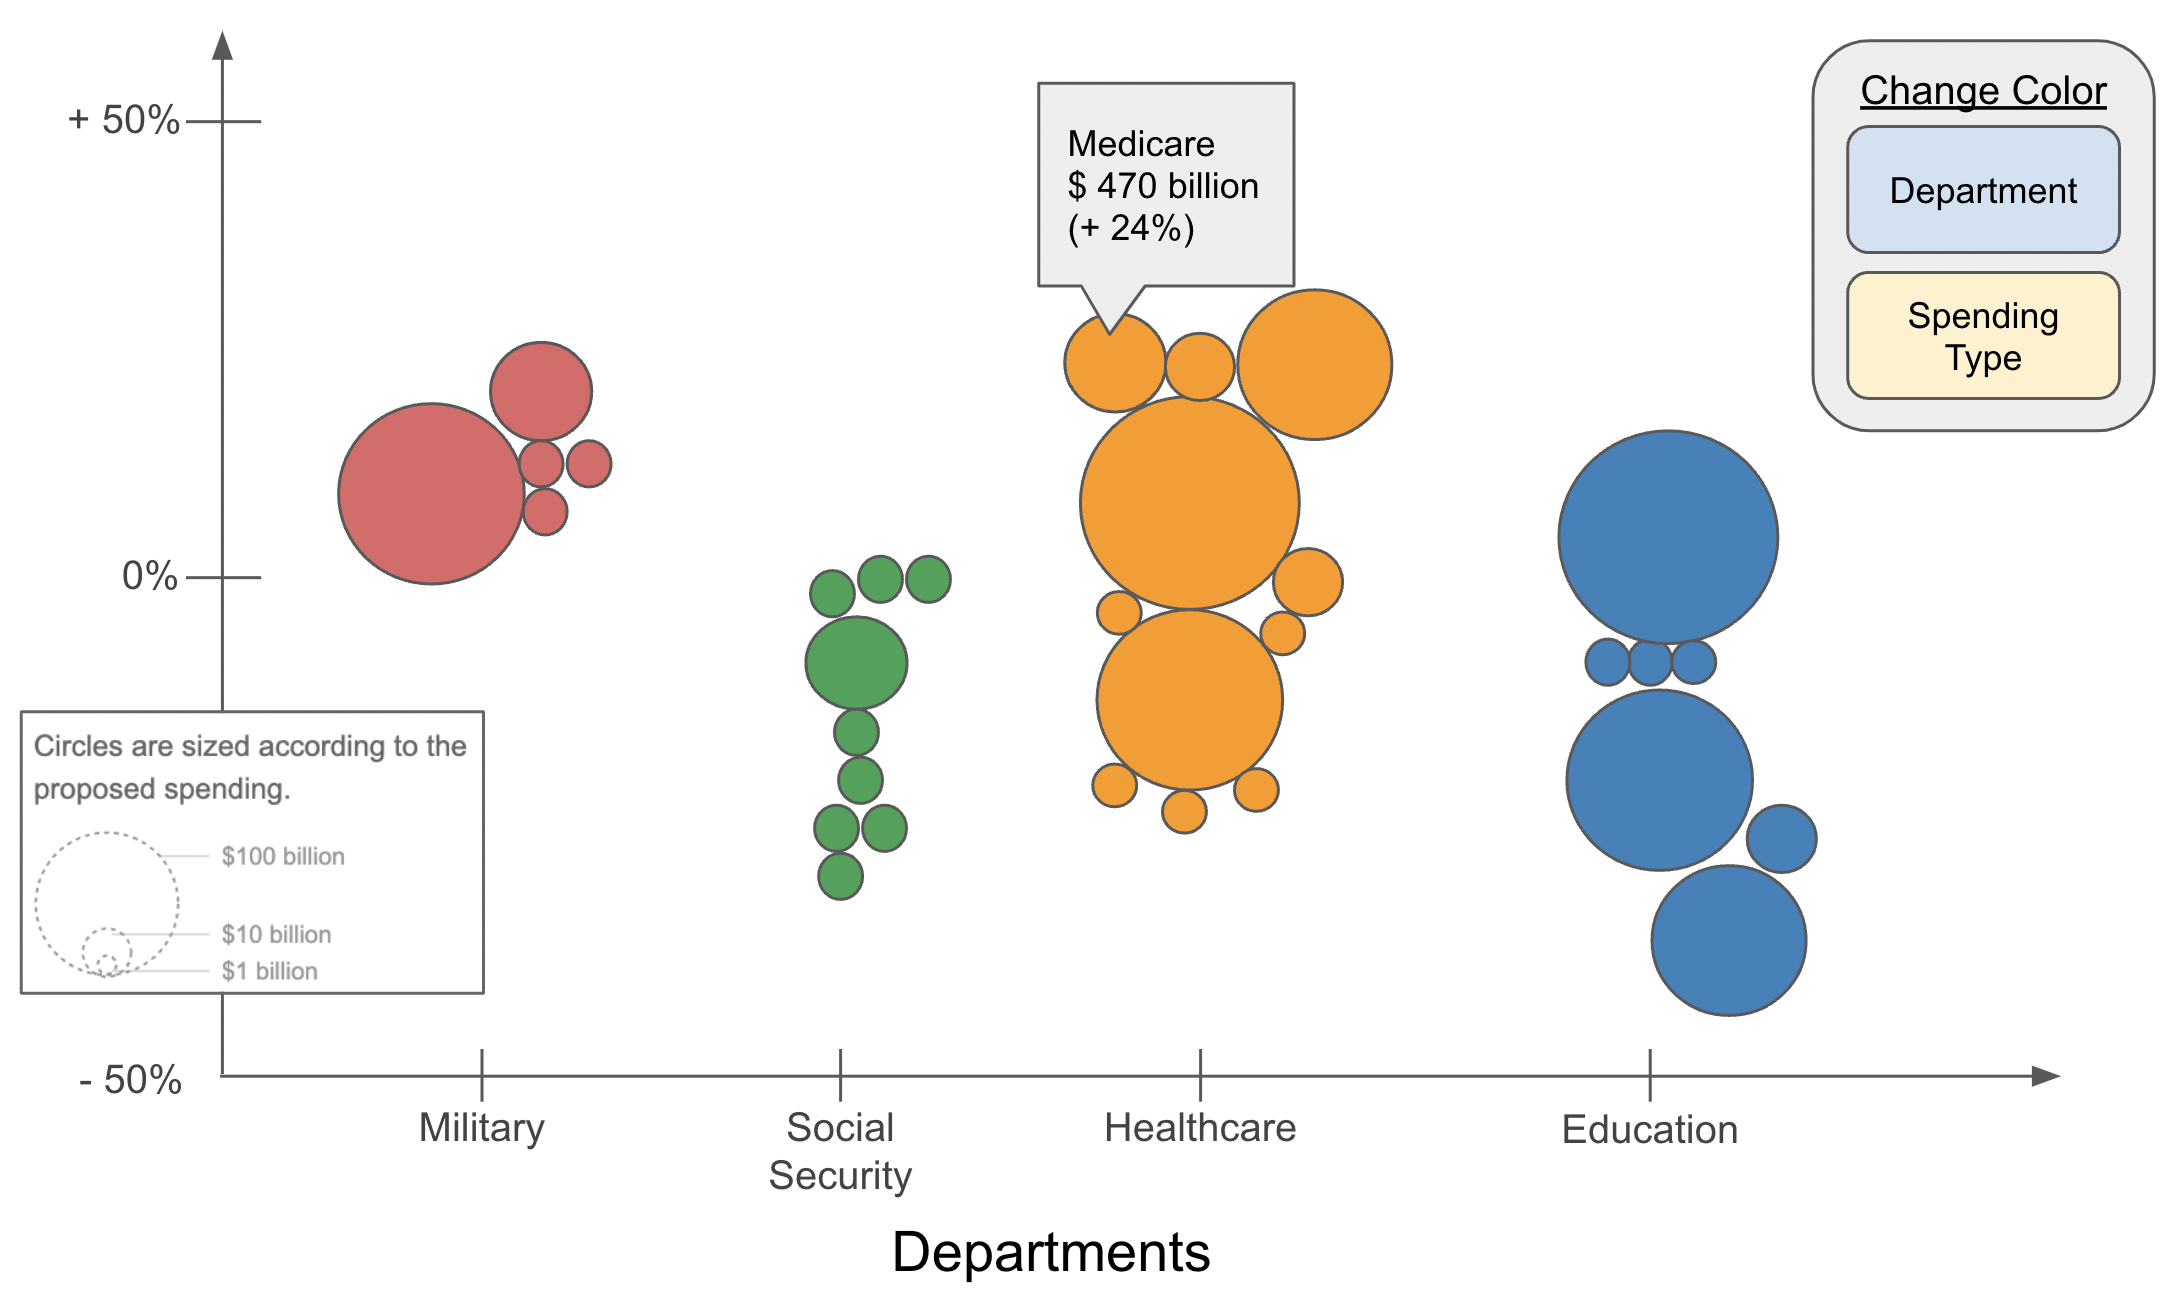
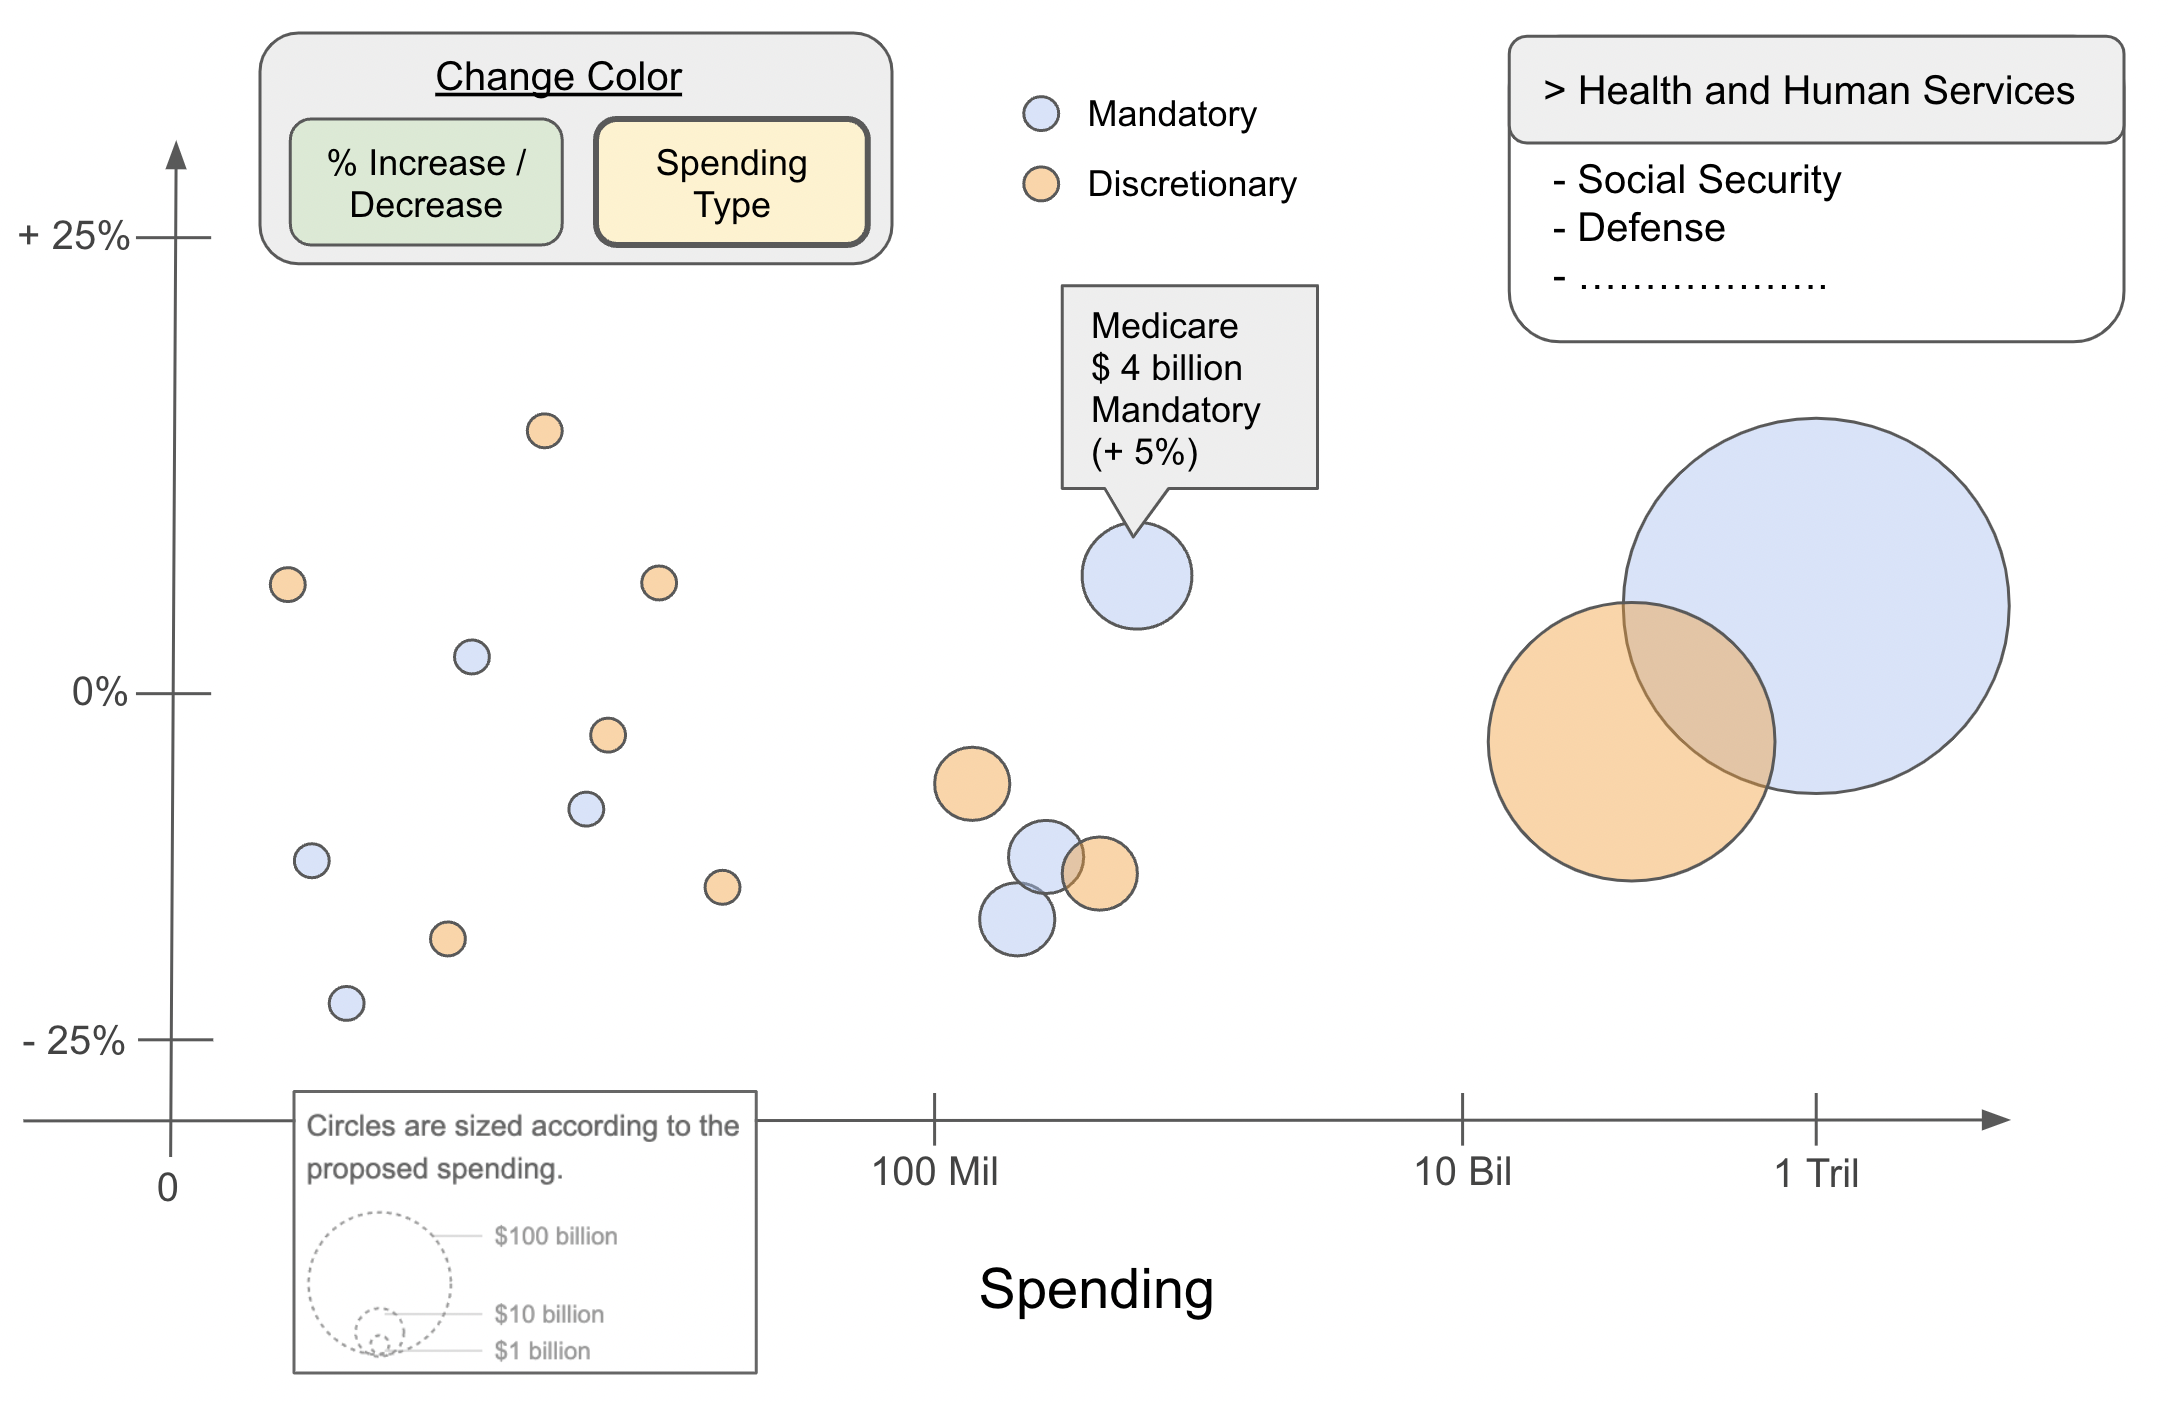
Overhauled proposed improvement 1 to better align with visualization critiques

diff --git a/index.html b/index.html
@@ -82,26 +82,36 @@
                                 <li>Forecasted spending amount</li>
                                 <li>Budget % increase/decrease</li>
                                 <li>Spending types</li>
-                                <li>Total amount for each department.</li>
+                                <li>Total amount for each department</li>
                             </ul>
                         <h5>Idiom</h5>
                             <ul>
-                                <li>Uses a circular packed bubble chart to represent the spending of each department</li>
+                                <li>Uses a circular packed bubble chart to represent the spending of each department.</li>
                                 <br>
-                                <li>A color scale is used to represented the proposed budget % increase/decrease from the previous year</li>
+                                <li>A color scale is used to represented the proposed budget % increase/decrease from the previous year.</li>
+                                <br>
+                                <li>Types of Spending tab splits the chart into the two spending types.</li>
+                                <br>
+                                <li>Changes tab showcases a graph of discretionary spending % increase/decrease (y-axis) for each department (x-axis).</li>
+                                <br>
+                                <li>Department Totals tab splits bubbles into cluster that sum the total spending per department.</li>
                             </ul>
                     </div>
 
                     <div class="notification is-danger content is-size-5">
                         <h5 >Critiques</h5>
                             <ul>
-                                <li>Unable to tell the spending each circle represent at a glance without hovering over it</li>
+                                <li><strong>Bubbles too small:</strong> Need to hover over bubbles to know what they are, but some of them are too small and packed together which can make hovering difficult.</li>
                                 <br>
-                                <li>Some circles are too small and packed together which can make it too hard for a user to examine</li>
+                                <li><strong>Lost ordering:</strong> Trying to examine bubbles under Department Totals tab is still difficult, as bubbles are mashed together without the highest to lowest change % ordering that's present in other tabs.</li>
                                 <br>
-                                <li>By itself, colour scale is not an effective way to accurately represent the % increase/decrease, better as a circle packed graph rather than an isolated instance</li>
+                                <li><strong>Unclear x-axis:</strong> Data in Changes tab is sorted by departments on the x-axis, but is not indicated.</li>
                                 <br>
-                                <li>Order of circle packed bubbles does not represent any information other then the % increase/decrease</li>
+                                <li><strong>Limited comparism:</strong> While users are able to compare spending between departments in the Changes tab, it is only for discetionary spending.</li>
+                                <br>
+                                <li><strong>Overlapping bubbles:</strong> Bubbles in the Changes tab tend to overlap, making it even harder to select smaller values that are clustered together.</li>
+                                <br>
+                                <li><strong>Redundant colour scale:</strong> Increase/decrease % is denoted on the y-axis in the changes tab, doing the same thing as the green to red colour scale.</li>
                             </ul>
                     </div>
                 </div>
@@ -128,13 +138,15 @@
                     <div class="notification is-primary content is-size-5">
                         <h5 >Improvements</h5>
                             <ul>
-                                <li>Changed prev color channel representing % change to positional. Circles are positioned on y-axis according to % increase/decrease, allowing for better clarity of scale.</li>
+                                <li><strong>Department changes tab:</strong> Create a new tab that focuses on the spending changes and amount for each department.</li>
                                 <br>
-                                <li>Data can be ordered by departments while staying aligned with the y-scale.</li>
+                                <li><strong>Clearer comparism:</strong> The addition of spending on the x-axis in conjuction with increase/decrease % allows users to better compare the spending areas of each department in an organized fashion.</li>
                                 <br>
-                                <li>Color changed to match departments. Can be changed to match different spending types.</li>
+                                <li><strong>Logarithmic scale:</strong> The spending scale is ogarithmic to ensure that smaller bubbles are spread further apart, highlighting their existence and reducing overlap possibility.</li>
                                 <br>
-                                <li>More space means it's easier to discover smaller circles.</li>
+                                <li><strong>Dropdown menu:</strong> Users have an option to select which departments they want to examine, rather than having to rely on the unorganized Department Totals tab.</li>
+                                <br>
+                                <li><strong>More options for colour:</strong> Allows users to swap the colour scale to a different category, making visual identification faster.</li>
                             </ul>
                     </div>
                 </div>
